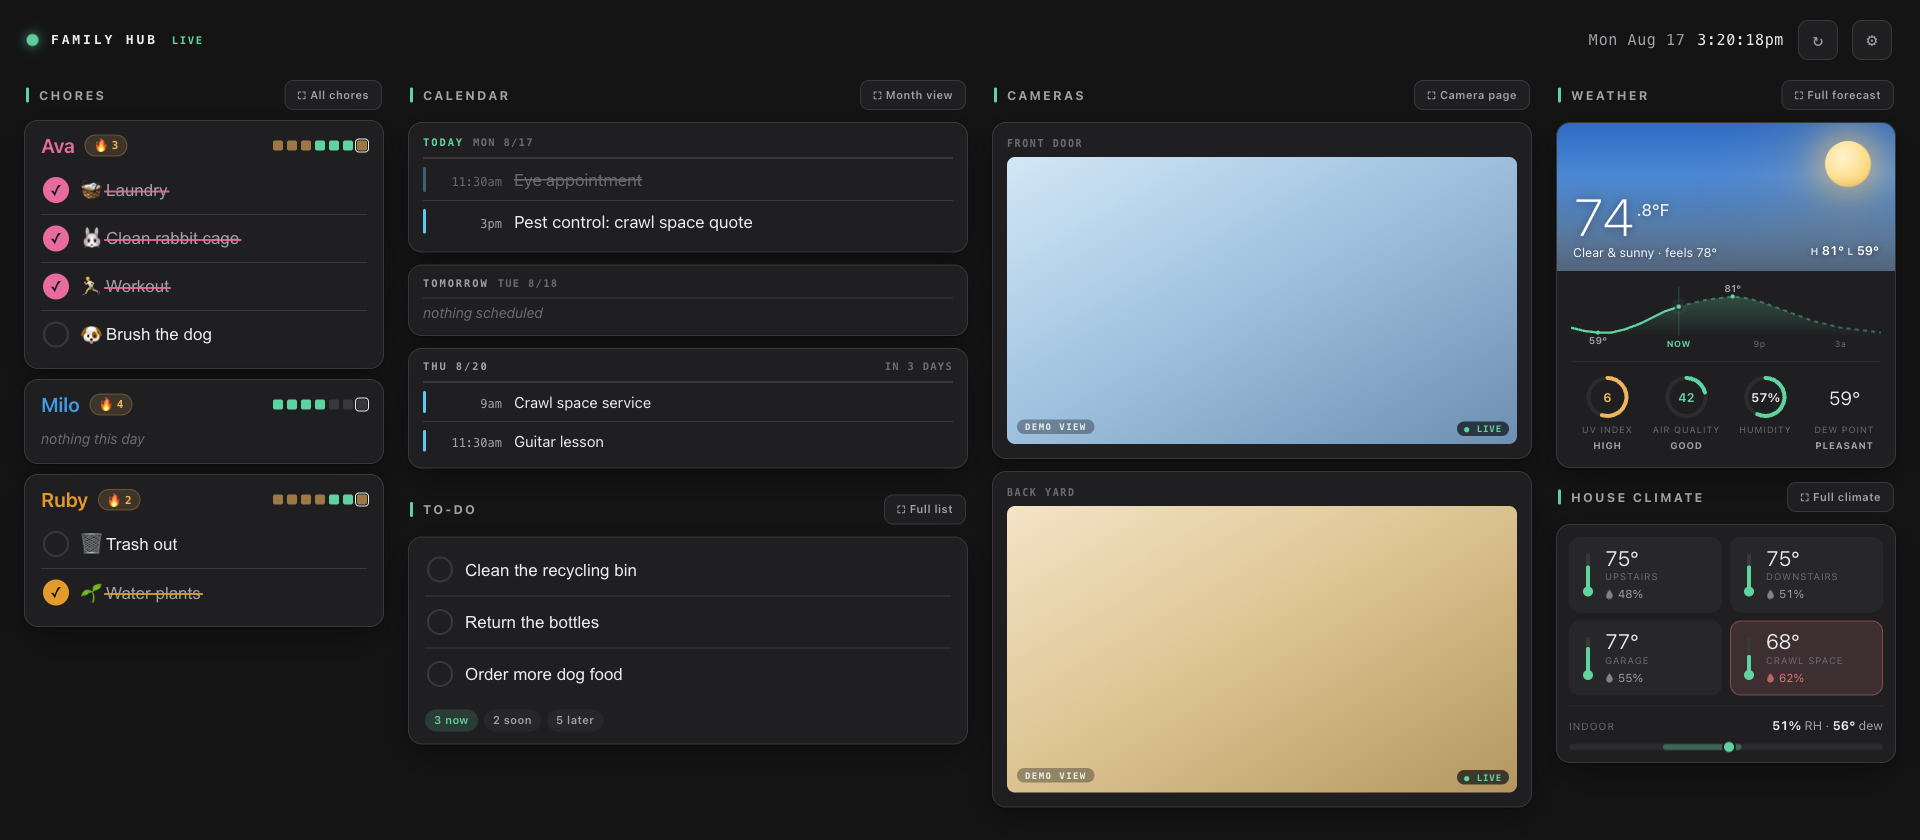
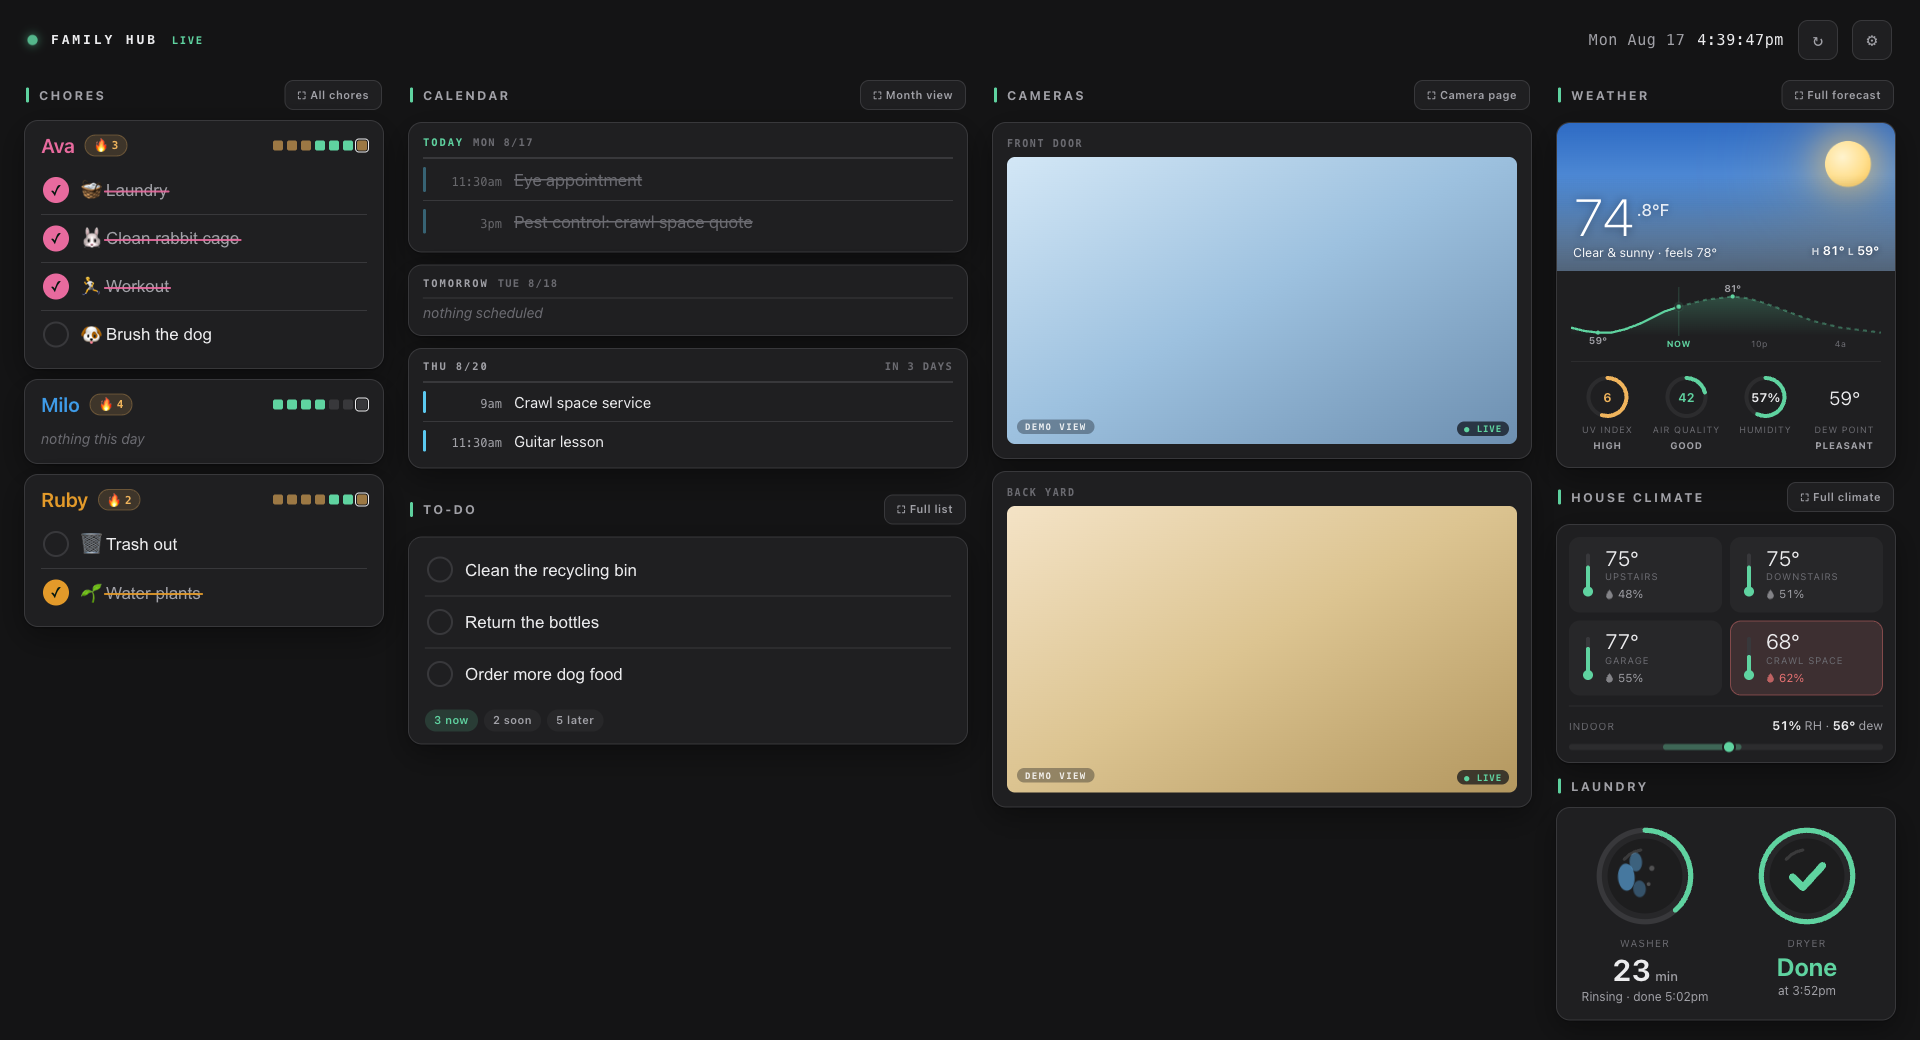
docs: README wall screenshot + copy for the laundry card
Regenerated docs/hub.png from the shipped demo (1920px, laundry card
in both signature states: washer mid-cycle on the timer dial, dryer
done). Wall feature list + caption mention laundry.

Claude-Session: https://claude.ai/code/session_01KcRYSevtaG8D7bSWBSS3yF

diff --git a/README.md b/README.md
@@ -4,13 +4,14 @@ A self-hosted **family wall display** built for a touchscreen on the kitchen
 wall, with the same page mobile-optimized for phones. Google Calendar and
 Apple/ICS calendars front and center, a per-person daily chore tracker with
 one-tap check-off, live security-camera tiles (UniFi Protect, Wyze, anything
-go2rtc speaks), and at-a-glance weather and per-room climate cards that
-expand to your full dashboards on a tap, all in a light or dark theme with
-an accent color you pick.
+go2rtc speaks), at-a-glance weather and per-room climate cards that
+expand to your full dashboards on a tap, and a laundry card that counts a
+washer or dryer cycle down and remembers when the load finished, all in a
+light or dark theme with an accent color you pick.
 
 ![family-hub](docs/hub.png)
 
-*The kitchen wall: one card system across chores, the shared calendar with to-dos, cameras, and at-a-glance weather + per-room climate. Shown in the default grey theme with a green accent and sample data.*
+*The kitchen wall: one card system across chores, the shared calendar with to-dos, cameras, at-a-glance weather + per-room climate, and the laundry portholes. Shown in the default grey theme with a green accent and sample data.*
 
 ![family-hub on a phone](docs/phone.png)
 
@@ -23,7 +24,7 @@ at one URL.
 ## What it looks like
 
 - **Wall (1920×1080):** chores | calendar + to-dos | cameras | weather +
-  climate, all in one card system. **Five display modes** (light, soft, blue,
+  climate + laundry, all in one card system. **Five display modes** (light, soft, blue,
   grey, black) **with a pick-your-accent color** (cyan, violet, amber, or green)
   and an optional subtle column
   separation, set from the wall itself or any phone and remembered per device.
